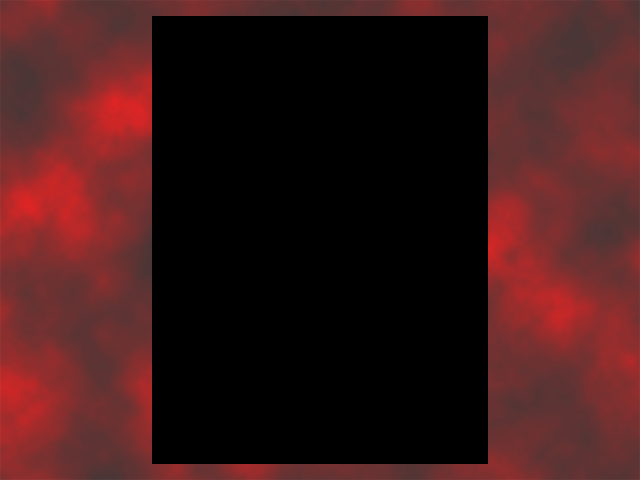
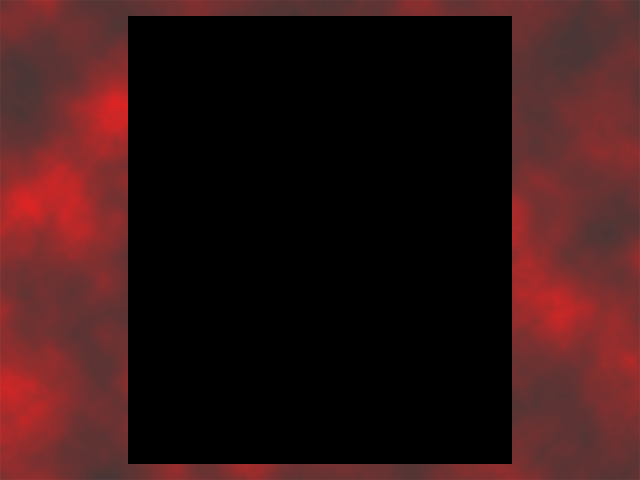
Made the level wider, started working on a Player script.

Changed region(s): [[0.75, 0.0312, 0.8125, 0.9688], [0.1875, 0.0312, 0.25, 0.9688]]

diff --git a/DanmakuTime/DanmakuTime/src/nl/weeaboo/dt/Game.java b/DanmakuTime/DanmakuTime/src/nl/weeaboo/dt/Game.java
@@ -138,7 +138,7 @@ public class Game extends GameBase {
 		fieldMap.put(0, new Field(0, 0, width, height));
 		
 		//Main field (1)
-		int fw = 336;
+		int fw = 384;
 		int fh = 448;
 		fieldMap.put(1, new Field((width-fw)/2, (height-fh)/2, fw, fh));
 		
